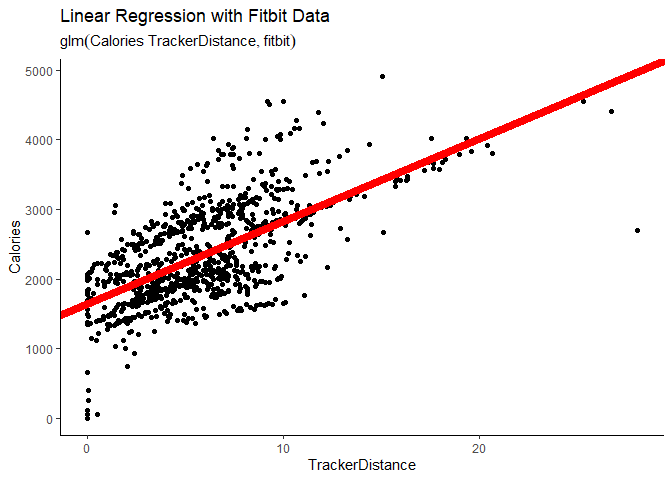
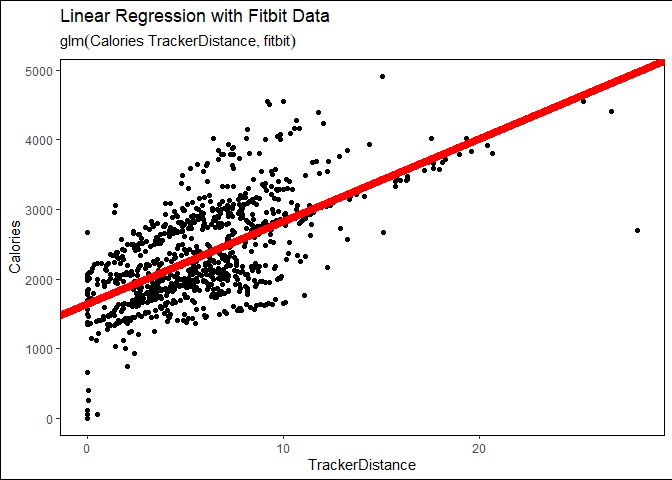
transparent plots

Changed region(s): [[0.0, 0.9688, 0.0312, 1.0], [0.0, 0.0, 0.0312, 0.0312]]

diff --git a/hack-cwru-workshop.md b/hack-cwru-workshop.md
@@ -254,11 +254,11 @@ matrix1
 ```
 
     ##          [,1]     [,2]
-    ## [1,] 3.480571 6.927518
-    ## [2,] 4.727471 5.678969
-    ## [3,] 5.637461 6.807035
-    ## [4,] 4.166759 6.234917
-    ## [5,] 2.270474 5.353819
+    ## [1,] 2.879958 7.224661
+    ## [2,] 4.986080 7.185012
+    ## [3,] 4.791872 5.119443
+    ## [4,] 4.292041 6.184423
+    ## [5,] 5.596733 7.030802
 
 To index this class of object, the column names and row names give us a
 pretty good idea. To get a specific element, index the row then column.
@@ -267,7 +267,7 @@ pretty good idea. To get a specific element, index the row then column.
 matrix1[3,1]
 ```
 
-    ## [1] 5.637461
+    ## [1] 4.791872
 
 Matrices can also be indexed as one-dimensional by supplying one index.
 The columns wrap to the next one.
@@ -276,13 +276,13 @@ The columns wrap to the next one.
 matrix1[6]
 ```
 
-    ## [1] 6.927518
+    ## [1] 7.224661
 
 ``` r
 matrix1[1,2]
 ```
 
-    ## [1] 6.927518
+    ## [1] 7.224661
 
 To get a full row or column, just leave the other dimension blank.
 
@@ -290,7 +290,7 @@ To get a full row or column, just leave the other dimension blank.
 matrix1[1,]
 ```
 
-    ## [1] 3.480571 6.927518
+    ## [1] 2.879958 7.224661
 
 ## Data Frames
 
@@ -311,16 +311,16 @@ dataframe1
 ```
 
     ##         col1 col2
-    ## 1   3.480571    1
-    ## 2   4.727471    2
-    ## 3   5.637461    3
-    ## 4   4.166759    4
-    ## 5   2.270474    5
-    ## 6   6.927518    6
-    ## 7   5.678969    7
-    ## 8   6.807035    8
-    ## 9   6.234917    9
-    ## 10  5.353819   10
+    ## 1   2.879958    1
+    ## 2   4.986080    2
+    ## 3   4.791872    3
+    ## 4   4.292041    4
+    ## 5   5.596733    5
+    ## 6   7.224661    6
+    ## 7   7.185012    7
+    ## 8   5.119443    8
+    ## 9   6.184423    9
+    ## 10  7.030802   10
     ## 11 78.000000   11
     ## 12 44.000000   12
 
@@ -331,8 +331,8 @@ returns a vector.
 dataframe1$col1
 ```
 
-    ##  [1]  3.480571  4.727471  5.637461  4.166759  2.270474  6.927518  5.678969
-    ##  [8]  6.807035  6.234917  5.353819 78.000000 44.000000
+    ##  [1]  2.879958  4.986080  4.791872  4.292041  5.596733  7.224661  7.185012
+    ##  [8]  5.119443  6.184423  7.030802 78.000000 44.000000
 
 You can also index like you do with matrices, but since it’s a
 dataframe, the first method is preferred.
@@ -341,8 +341,8 @@ dataframe, the first method is preferred.
 dataframe1[,1]
 ```
 
-    ##  [1]  3.480571  4.727471  5.637461  4.166759  2.270474  6.927518  5.678969
-    ##  [8]  6.807035  6.234917  5.353819 78.000000 44.000000
+    ##  [1]  2.879958  4.986080  4.791872  4.292041  5.596733  7.224661  7.185012
+    ##  [8]  5.119443  6.184423  7.030802 78.000000 44.000000
 
 ## Conditional Indexing
 
@@ -359,7 +359,7 @@ greater_than_1 <- dataframe1$col1 > 4
 greater_than_1
 ```
 
-    ##  [1] FALSE  TRUE  TRUE  TRUE FALSE  TRUE  TRUE  TRUE  TRUE  TRUE  TRUE  TRUE
+    ##  [1] FALSE  TRUE  TRUE  TRUE  TRUE  TRUE  TRUE  TRUE  TRUE  TRUE  TRUE  TRUE
 
 Here, we receive a vector of boolean (True or False) values. We can use
 this vector to index the original vector. So we only receive elements
@@ -369,15 +369,15 @@ from col1 where greater_than_1 is equal to True.
 dataframe1$col1
 ```
 
-    ##  [1]  3.480571  4.727471  5.637461  4.166759  2.270474  6.927518  5.678969
-    ##  [8]  6.807035  6.234917  5.353819 78.000000 44.000000
+    ##  [1]  2.879958  4.986080  4.791872  4.292041  5.596733  7.224661  7.185012
+    ##  [8]  5.119443  6.184423  7.030802 78.000000 44.000000
 
 ``` r
 dataframe1$col1[greater_than_1]
 ```
 
-    ##  [1]  4.727471  5.637461  4.166759  6.927518  5.678969  6.807035  6.234917
-    ##  [8]  5.353819 78.000000 44.000000
+    ##  [1]  4.986080  4.791872  4.292041  5.596733  7.224661  7.185012  5.119443
+    ##  [8]  6.184423  7.030802 78.000000 44.000000
 
 This is an extremely powerful tool in base R. You can also create other
 conditionals with:
@@ -521,10 +521,10 @@ library(tidyverse)
 ```
 
     ## -- Attaching packages --------------------------------------- tidyverse 1.3.2 --
-    ## v ggplot2 3.4.0      v purrr   0.3.5 
     ## v tibble  3.1.8      v dplyr   1.0.10
     ## v tidyr   1.2.1      v stringr 1.5.0 
     ## v readr   2.1.3      v forcats 0.5.2 
+    ## v purrr   0.3.5      
     ## -- Conflicts ------------------------------------------ tidyverse_conflicts() --
     ## x dplyr::filter() masks stats::filter()
     ## x dplyr::lag()    masks stats::lag()
@@ -715,9 +715,10 @@ ggplot(mtcars) + geom_bar(aes(x = cyl, fill = factor(cyl)), stat = 'count') +
          y = "Count",
          title = "Histogram of Cylinders") +
     
-    # Since the default ggplot theme is bare-bones, I usually throw on a built-in theme
+    # Since the default ggplot theme is bare-bones, I usually throw on a better one
+    # I'm using a custom theme similar to theme_classic(), but modified for this website
     
-    theme_classic()
+    my_theme()
 ```
 
 ![](hack-cwru-workshop_files/figure-gfm/unnamed-chunk-34-1.png)<!-- -->
@@ -728,6 +729,10 @@ communicated to others. There are lots of industry-leading tools besides
 R that use can use to visualize data. More info about one of these tools
 can be found on [the Tableau
 website](https://www.tableau.com/learn/articles/data-visualization).
+
+Also, to learn how I created this custom theme, check out [this tutorial
+by Maddie Pickens on
+RPubs](https://rpubs.com/mclaire19/ggplot2-custom-themes).
 
 # Machine Learning
 
@@ -930,7 +935,7 @@ ggplot(data = fitbit) +
     
     # Add a better theme
     
-    theme_classic()
+    my_theme()
 ```
 
 ![](hack-cwru-workshop_files/figure-gfm/unnamed-chunk-40-1.png)<!-- -->
@@ -1032,7 +1037,7 @@ ggplot(data = fitbit) +
     
     # Add a better theme
     
-    theme_classic()
+    my_theme()
 ```
 
 ![](hack-cwru-workshop_files/figure-gfm/unnamed-chunk-43-1.png)<!-- -->
@@ -1078,7 +1083,7 @@ ggplot(fit_new) +
     
     labs(title = "Histogram of dvcal") + 
     
-    theme_classic()
+    my_theme()
 ```
 
     ## Warning in geom_histogram(aes(x = dvcal, fill = dvcal), stat = "count"):
